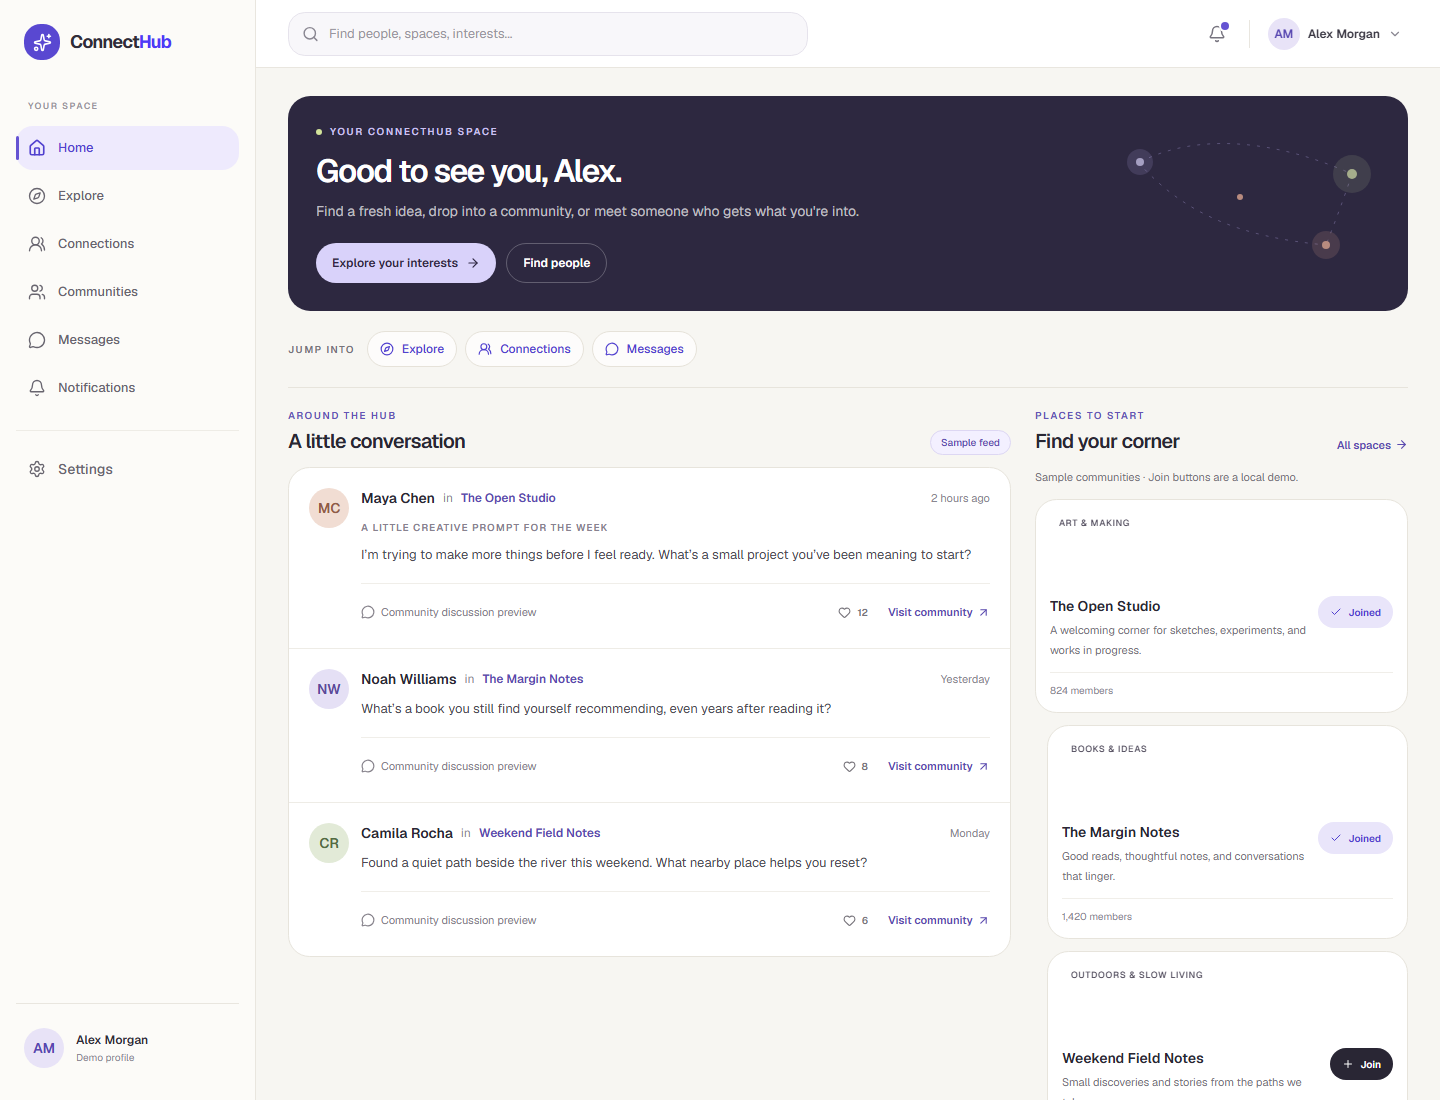
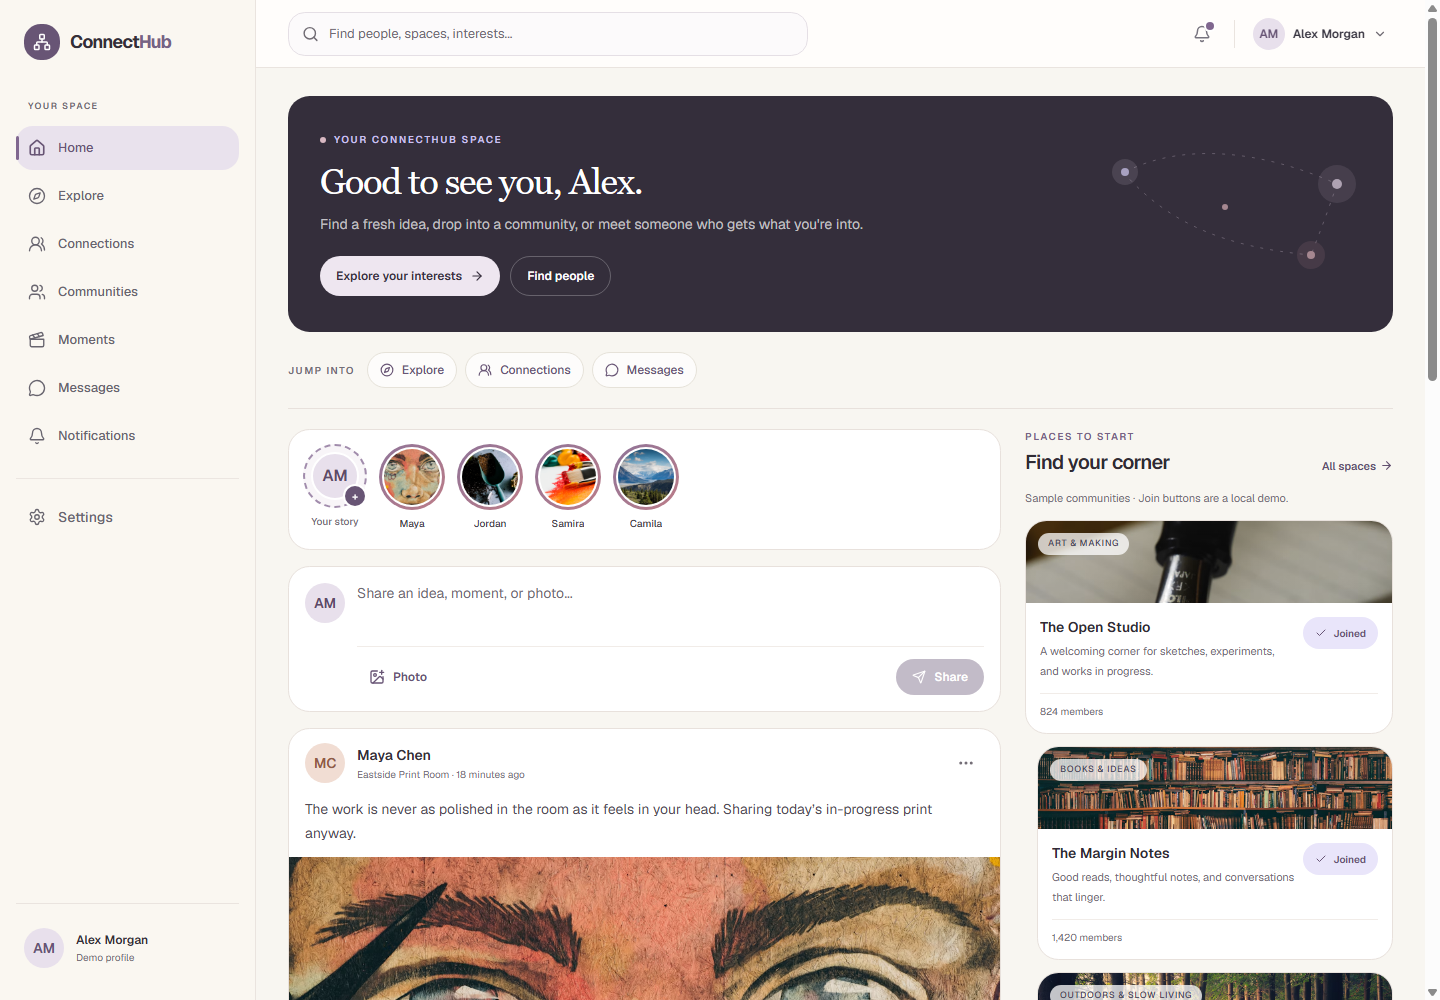
final changes

diff --git a/docs/design-system.md b/docs/design-system.md
@@ -2,50 +2,60 @@
 
 ## 1. Overview
 
-ConnectHub uses a clean, modern, responsive visual language designed for a social networking and interest-discovery platform.
+ConnectHub uses a warm, editorial visual language for a social networking and interest-discovery platform. Cream and ivory surfaces, muted plum and lilac accents, charcoal typography, and natural photography keep the interface welcoming and professional.
 
-The design system provides consistent colors, typography, spacing, components, and interaction patterns throughout the application.
+The product palette is intentionally soft rather than pink-heavy. Shared components use the same tokens, spacing, and interaction patterns throughout the application.
 
 ## 2. Color Palette
 
-### Named UI Tokens
+### Product palette
 
-ConnectHub-specific utilities are defined in `src/app/globals.css` and use the `hub-*` namespace. The core palette is:
+ConnectHub-specific utilities are defined in `src/app/globals.css` under the `hub-*` namespace. These are the current light-theme values:
 
 | Token                | Value     | Use                                |
 | -------------------- | --------- | ---------------------------------- |
-| `hub-primary`        | `#5141cf` | Primary actions and brand emphasis |
-| `hub-primary-hover`  | `#40369b` | Primary hover state                |
-| `hub-primary-soft`   | `#f0edfc` | Selected and highlighted surfaces  |
-| `hub-primary-border` | `#d7cff5` | Brand-tinted borders               |
-| `hub-focus`          | `#6553d2` | Visible focus indicators           |
-| `hub-canvas`         | `#f7f6f2` | Warm application canvas            |
-| `hub-surface`        | `#ffffff` | Main content surface               |
-| `hub-ink`            | `#302d39` | Primary body text                  |
-| `hub-title`          | `#292733` | Page and section headings          |
-| `hub-muted`          | `#77747b` | Secondary text                     |
-| `hub-border`         | `#e7e4dc` | Standard separators and borders    |
-| `hub-divider`        | `#efede7` | Subtle internal separators         |
-| `hub-danger`         | `#a9485b` | Destructive or negative actions    |
-| `hub-success`        | `#536b48` | Positive status details            |
+| `hub-primary`        | `#685575` | Primary actions and brand emphasis |
+| `hub-primary-hover`  | `#51415e` | Primary hover state                |
+| `hub-primary-deep`   | `#40324b` | High-contrast plum surfaces        |
+| `hub-accent`         | `#90769b` | Secondary plum/lilac accents       |
+| `hub-primary-soft`   | `#f0ebf3` | Selected and highlighted surfaces  |
+| `hub-primary-wash`   | `#f8f5f8` | Subtle brand-tinted surfaces       |
+| `hub-primary-border` | `#d8cbdc` | Brand-tinted borders               |
+| `hub-canvas`         | `#f8f6f1` | Warm application canvas            |
+| `hub-surface`        | `#fffdfa` | Main content surface               |
+| `hub-surface-warm`   | `#faf7f1` | Warm secondary surface             |
+| `hub-ink`            | `#342f38` | Primary body text                  |
+| `hub-title`          | `#302b34` | Page and section headings          |
+| `hub-body`           | `#514c55` | Body text                          |
+| `hub-muted`          | `#746e77` | Secondary text                     |
+| `hub-border`         | `#e8e1dc` | Standard separators and borders    |
+| `hub-focus`          | `#80678f` | Visible focus indicators           |
+| `hub-danger`         | `#a65368` | Destructive or negative actions    |
+| `hub-success`        | `#586d53` | Positive status details            |
 
-Semantic CSS variables for primary, secondary, background, surface, text, border, success, warning, danger, and focus states remain available for shared primitives. Community illustrations and sample avatar colors use a small set of intentionally varied accent colors.
-
-The shared semantic tokens support a `.dark` theme; the ConnectHub product palette is currently tuned for the light application design.
+Shared primitives also use semantic CSS variables for primary, secondary, background, surface, text, border, status, and focus states. These remain available for the `.dark` theme; the ConnectHub product palette is currently tuned for the light application design. Illustrations and sample avatars use a restrained set of additional accent colors.
 
 ## 3. Typography
 
-Font family: Geist Sans
+### UI and body
 
-Monospace font: Geist Mono
+Geist Sans is used for body text, navigation, controls, and general interface content.
 
-Typography hierarchy:
+### Editorial headings
 
-- Page title: Large, bold
-- Section title: Medium to large, semibold
-- Body: Regular
-- Caption: Small, muted
-- Label: Small to medium, medium weight
+Georgia, with Times New Roman and the system serif as fallbacks, is reserved for selected editorial headings. It is an accent to the UI typography, not a body font.
+
+### Monospace
+
+Geist Mono is available for code-like or technical content.
+
+The hierarchy is:
+
+- Page title: large, clear, and usually sans-serif; editorial serif is used selectively.
+- Section title: medium to large, semibold.
+- Body: regular weight with comfortable line height.
+- Caption: small and muted, while retaining readable contrast.
+- Label: small to medium, medium weight.
 
 ## 4. Spacing System
 
@@ -76,10 +86,11 @@ The interface follows a mobile-first development approach.
 ## 6. Component Styling
 
 - Consistent border colors
-- Rounded corners using shared radius tokens
+- Rounded corners use the shared radius scale, based on a `0.75rem` base radius.
 - Subtle shadows where appropriate
 - Clear visual separation between content sections
 - Consistent padding and alignment
+- Warm surfaces and delicate borders support the editorial palette without excess decoration.
 
 ## 7. Interaction States
 
@@ -110,11 +121,12 @@ Keyboard users must have visible focus indicators.
 - Tailwind CSS v4
 - shadcn/ui with Base UI
 - Lucide React
-- Geist typography
+- Geist Sans and Geist Mono with a Georgia editorial heading stack
 
 ## 10. Implementation Notes
 
 - Shared semantic and `hub-*` design tokens are maintained in `src/app/globals.css`.
+- Geist Sans and Geist Mono are loaded in `src/app/layout.tsx`; the editorial serif stack is defined in `src/app/globals.css`.
 - Reusable UI components belong in `src/components/ui/`.
 - Layout components belong in `src/components/layout/`.
 - Dashboard and feature-specific components belong in `src/components/dashboard/` and `src/components/features/`.

diff --git a/docs/submission-checklist.md b/docs/submission-checklist.md
@@ -3,7 +3,8 @@
 ## 1. Project
 
 - Repository: https://github.com/Ranjita431/ConnectHub
-- Feature branch: `week1-foundation`
+- Submission branch: `week1-final-submission`
+- Base branch: `week1-foundation`
 - Framework: Next.js App Router
 - Language: TypeScript
 - Styling: Tailwind CSS
@@ -16,7 +17,7 @@
 - Desktop sidebar and header
 - Mobile navigation
 - Required application routes and community detail route
-- Local demo experiences for Explore, Connections, Communities, Messages, Notifications, Profiles, and Settings
+- Local demo experiences for Home, Explore, Moments, Connections, Communities, Messages, Notifications, Profiles, and Settings
 - Reusable UI components
 - Loading, error and not-found states
 - Fictional sample identities and content; no backend or persistent user data
@@ -50,7 +51,7 @@ This is a frontend-only prototype. Authentication is demonstrative. Feature acti
 ## 7. Submission Status
 
 - Branch: `week1-final-submission` → `week1-foundation`
-- Pull request: #1 (open; targets `week1-foundation`)
+- Pull request: [#1](https://github.com/Ranjita431/ConnectHub/pull/1) (merged into `week1-foundation` on November 28, 2026)
 - Screenshots: stored in `submission-assets/screenshots/`
 - Wireframes: stored as an editable SVG in `submission-assets/wireframes/`
 

diff --git a/docs/product-foundation.md b/docs/product-foundation.md
@@ -34,6 +34,7 @@ All feature data is fictional and held in shared in-memory state. There is no ba
 | Explore        | Search and filter sample people and communities    |
 | Connections    | Preview connection requests and suggestions        |
 | Communities    | Discover spaces and join or leave locally          |
+| Moments        | Browse photo-led story and moment previews         |
 | Messages       | Preview conversations and add local demo messages  |
 | Notifications  | Filter, read, and dismiss sample notifications     |
 | Profile        | Show sample profiles and local connection actions  |
@@ -51,6 +52,7 @@ All feature data is fictional and held in shared in-memory state. There is no ba
 | `/connections`               | Connections      | Application      |
 | `/communities`               | Communities      | Application      |
 | `/communities/[communityId]` | Community detail | Application      |
+| `/moments`                   | Moments          | Application      |
 | `/messages`                  | Messages         | Application      |
 | `/notifications`             | Notifications    | Application      |
 | `/profile/[userId]`          | Profile          | Application      |

diff --git a/README.md b/README.md
@@ -115,6 +115,7 @@ connecthub-frontend/
 | `/connections`               | Connections interface                         |
 | `/communities`               | Communities interface                         |
 | `/communities/[communityId]` | Community detail and local discussion preview |
+| `/moments`                   | Photo-led moments and story previews          |
 | `/messages`                  | Messages interface                            |
 | `/notifications`             | Notifications interface                       |
 | `/profile/[userId]`          | User profile                                  |
@@ -185,7 +186,7 @@ All people, posts, communities, and activity are fictional sample data. Demo int
 
 ## Development
 
-The submission branch is `week1-final-submission`, targeting `week1-foundation`. Pull request #1 tracks the Week 1 submission.
+The submission branch is `week1-final-submission`, targeting `week1-foundation`. [Pull request #1](https://github.com/Ranjita431/ConnectHub/pull/1) was merged into `week1-foundation` on November 28, 2026.
 
 ## License
 
